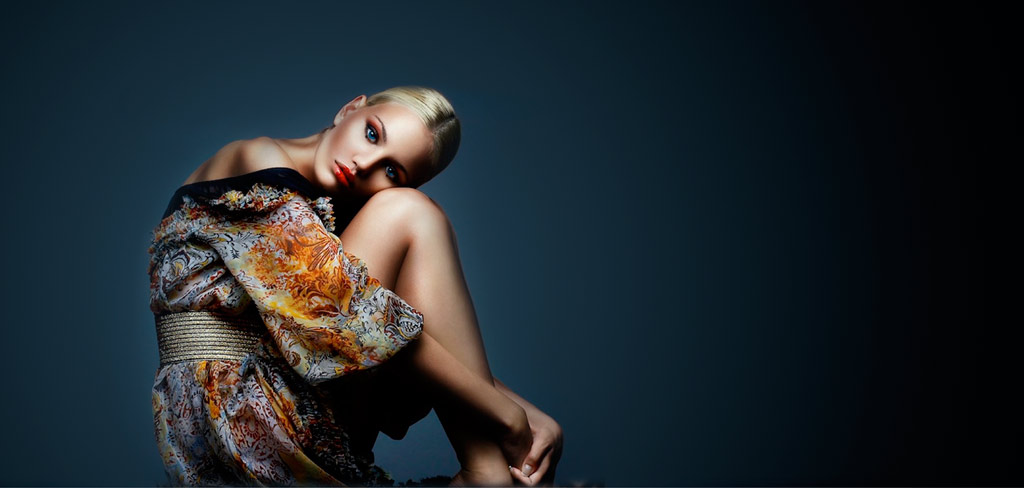
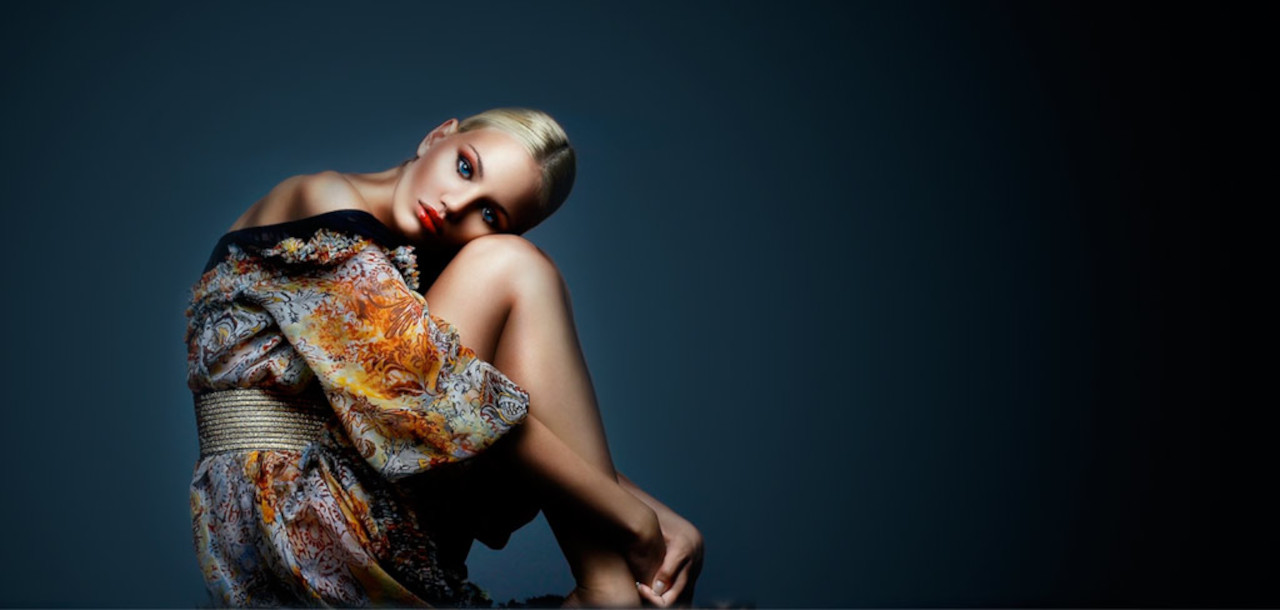
tablet feito e desktop encaminhada
faltando apenas a ultima div

diff --git a/estilo/media-query.css b/estilo/media-query.css
@@ -33,3 +33,81 @@
     text-decoration: underline;
    }
 }
+
+@media screen and (min-width: 992px) {
+        /* Grandes Telas */
+
+        header h1{
+            padding: 0;
+        }
+
+        header{
+            background-image: url(../imagens/topo.jpg);
+            width: 100%;
+            height: 610px;
+            background-repeat: no-repeat;
+            background-size: cover  ;
+            background-position: center right;
+            background-attachment: fixed;
+        }
+
+        div.header-menu{
+            display: flex;
+            align-items: flex-start;
+            justify-content: space-around;
+            background-color: #162028;
+        }
+
+        nav{
+            display: flex;
+            align-self: center ;
+        }
+
+        span#burguer{
+            display: none;
+        }
+        
+        nav li{
+            display: inline;
+            padding: 15px;
+        }
+
+        nav a{
+            display: inline;
+            border: none;
+            color: #6c7a87;
+        }
+
+        nav a:hover{
+            background-color: transparent;
+            color: white;
+            transition-duration: .3s;
+        }
+        
+       article{
+            width: 80%;
+            margin: auto;
+        }
+
+
+        .artigo-1 h2{
+            font-size: 40px;
+        }
+
+        .artigo-1 p{
+            font-size: 18px;
+            line-height: 1.9;   
+        }
+
+        div.card-container{
+            display: flex;
+            flex-direction: row;
+            justify-content: space-evenly;
+        }
+
+        .artigo-3{
+            
+            width: 90%;
+            height: 400px;
+        }
+}

diff --git a/index.html b/index.html
@@ -16,17 +16,19 @@
 
     <header>
 
-        <h1>Moda Ora</h1>
-        <span id="burguer" class="material-symbols-outlined" onclick="escondeMenu()">
-            menu
-        </span>
-        <nav id="itens">
-            <ul>
-                <li><a href="#">portfolio</a></li>
-                <li><a href="#">sobre nós</a></li>
-                <li><a href="#">contato</a></li>
-            </ul>
-        </nav>
+        <div class="header-menu">
+            <h1>Moda Ora</h1>
+            <span id="burguer" class="material-symbols-outlined" onclick="escondeMenu()">
+                menu
+            </span>
+            <nav id="itens">
+                <ul>
+                    <li><a href="#">portfolio</a></li>
+                    <li><a href="#">sobre nós</a></li>
+                    <li><a href="#">contato</a></li>
+                </ul>
+            </nav>
+        </div>
 
     </header>
 
@@ -91,13 +93,13 @@
            }
         }
 
-        //  function mudaTamanho(){
-        //      if(window.innerWidth >= 890){
-        //          itens.style.display = 'block'
-        //      }   else {
-        //          itens.style.display = 'none'
-        //      }
-        //  }
+        function mudaTamanho(){
+            if(window.innerWidth >= 768){
+                itens.style.display = 'block'
+            }   else {
+                itens.style.display = 'none'
+            }
+        }
 
     </script>
 
